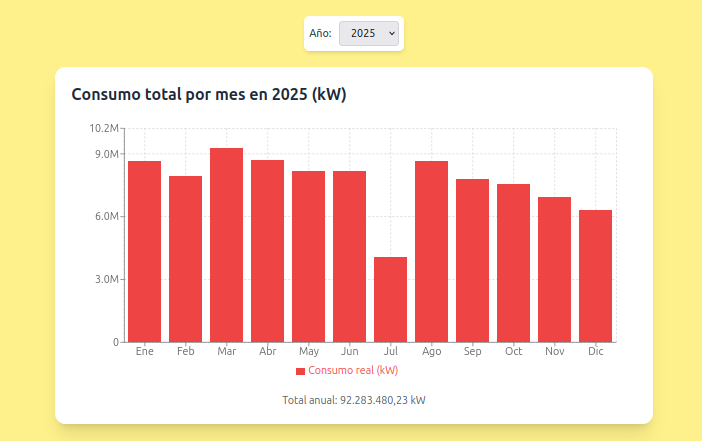
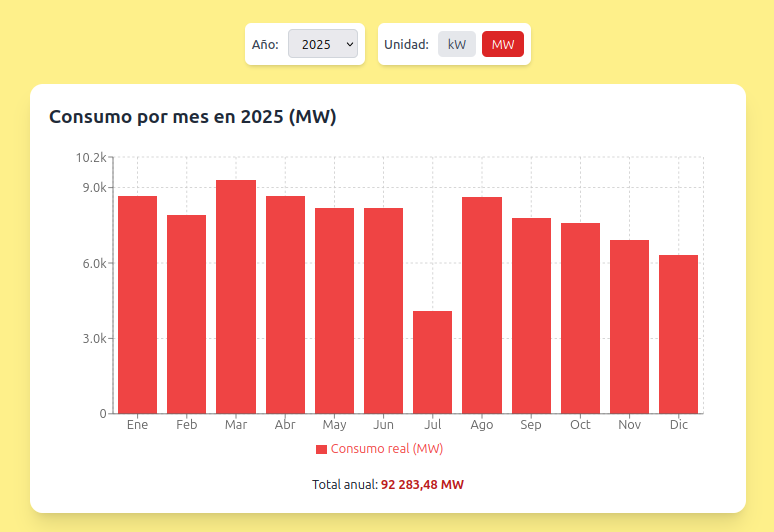
Agregando select unidad de medida en el dashboard

Changed region(s): [[0.0299, 0.0295, 0.9872, 0.9728], [0.5085, 0.619, 0.5385, 0.6485]]

diff --git a/frontend/src/components/ConsumoAnualChart.jsx b/frontend/src/components/ConsumoAnualChart.jsx
@@ -1,3 +1,4 @@
+// src/components/ConsumoAnualChart.jsx
 import { useState, useEffect } from 'react';
 import { getConsumoPorMes } from '../api/consultas.js';
 import {
@@ -9,33 +10,34 @@ const mesesNombres = {
   7: 'Jul', 8: 'Ago', 9: 'Sep', 10: 'Oct', 11: 'Nov', 12: 'Dic'
 };
 
-// Formato para tooltip y total (separadores de miles, 2 decimales)
 const formatNumber = (num) => {
-  return num.toLocaleString('es-ES', { useGrouping: true, maximumFractionDigits: 2 });
+  return num.toLocaleString('es-ES', { 
+    useGrouping: true, 
+    maximumFractionDigits: 2   
+  }).replace(/\./g, ' ');     
 };
 
-// Formato abreviado para el eje Y (con 1 decimal para miles)
 const yAxisFormat = (value) => {
   if (value >= 1e6) return (value / 1e6).toFixed(1) + 'M';
   if (value >= 1e3) return (value / 1e3).toFixed(1) + 'k';
   return value.toString();
 };
 
-export function ConsumoAnualChart({ año = 2025 }) {
+export function ConsumoAnualChart({ año, unidad = 'kW' }) {
   const [data, setData] = useState([]);
   const [loading, setLoading] = useState(true);
   const [error, setError] = useState(null);
-  const [totalAnual, setTotalAnual] = useState(0);
+  const [totalPeriodo, setTotalPeriodo] = useState(0);
 
   useEffect(() => {
     const fetchData = async () => {
       try {
         setLoading(true);
         setError(null);
-        const monthlyData = await getConsumoPorMes(año);
+        const monthlyData = await getConsumoPorMes(año, unidad);
         setData(monthlyData);
         const total = monthlyData.reduce((acc, item) => acc + item.total, 0);
-        setTotalAnual(total);
+        setTotalPeriodo(total);
       } catch (err) {
         console.error('Error cargando datos de consumo:', err);
         setError('No se pudieron cargar los datos. Intente de nuevo más tarde.');
@@ -44,28 +46,21 @@ export function ConsumoAnualChart({ año = 2025 }) {
       }
     };
     fetchData();
-  }, [año]);
+  }, [año, unidad]);
 
-  if (loading) {
-    return <div className="text-center py-12">Cargando datos...</div>;
-  }
+  if (loading) return <div className="text-center py-12">Cargando datos...</div>;
+  if (error) return <div className="text-center py-12 text-red-600">{error}</div>;
+  if (!data.length) return <div className="text-center py-12 text-gray-600">No hay datos disponibles para el año {año}</div>;
 
-  if (error) {
-    return <div className="text-center py-12 text-red-600">{error}</div>;
-  }
-
-  if (!data.length) {
-    return <div className="text-center py-12 text-gray-600">No hay datos disponibles para el año {año}</div>;
-  }
-
-  // Calcular valor máximo para el eje Y (con margen del 10%)
-  const maxTotal = data.length ? Math.max(...data.map(d => d.total)) : 0;
+  const maxTotal = Math.max(...data.map(d => d.total), 0);
   const yDomain = [0, maxTotal * 1.1 || 100];
+
+  const unidadLower = unidad === 'MW' ? 'MW' : 'kW';
 
   return (
     <div className="bg-white rounded-2xl shadow-xl p-6 max-w-4xl mx-auto">
       <h2 className="text-2xl font-bold text-gray-800 mb-4">
-        Consumo total por mes en {año} (kW)
+        Consumo por mes en {año} ({unidadLower})
       </h2>
       <ResponsiveContainer width="100%" height={400}>
         <BarChart data={data} margin={{ top: 20, right: 30, left: 20, bottom: 5 }}>
@@ -73,15 +68,15 @@ export function ConsumoAnualChart({ año = 2025 }) {
           <XAxis dataKey="mes" tickFormatter={(mes) => mesesNombres[mes]} />
           <YAxis domain={yDomain} tickFormatter={yAxisFormat} />
           <Tooltip
-            formatter={(value) => [`${formatNumber(value)} kW`, 'Consumo real']}
+            formatter={(value) => [`${formatNumber(value)} ${unidadLower}`, 'Consumo']}
             labelFormatter={(label) => mesesNombres[label]}
           />
           <Legend />
-          <Bar dataKey="total" fill="#ef4444" name="Consumo real (kW)" />
+          <Bar dataKey="total" fill="#ef4444" name={`Consumo real (${unidadLower})`} />
         </BarChart>
       </ResponsiveContainer>
-      <p className="text-center text-gray-600 mt-4">
-        Total anual: {formatNumber(totalAnual)} kW
+      <p className="text-center text-gray-900 mt-4">
+        Total anual: <span className='font-bold text-red-700'>{formatNumber(totalPeriodo)} {unidadLower}</span>
       </p>
     </div>
   );

diff --git a/frontend/src/components/TopEntidadesConsumo.jsx b/frontend/src/components/TopEntidadesConsumo.jsx
@@ -3,10 +3,13 @@ import { useState, useEffect } from 'react';
 import { getTopEntidadesConsumo } from '../api/consultas.js';
 
 const formatNumber = (num) => {
-  return num.toLocaleString('es-ES', { useGrouping: true, maximumFractionDigits: 2 });
+  return num.toLocaleString('es-ES', { 
+    useGrouping: true, 
+    maximumFractionDigits: 2
+  }).replace(/\./g, ' ');
 };
 
-export function TopEntidadesConsumo({ año }) {
+export function TopEntidadesConsumo({ año, unidad = 'kW' }) {
   const [data, setData] = useState([]);
   const [loading, setLoading] = useState(true);
   const [error, setError] = useState(null);
@@ -16,7 +19,7 @@ export function TopEntidadesConsumo({ año }) {
       try {
         setLoading(true);
         setError(null);
-        const result = await getTopEntidadesConsumo(año);
+        const result = await getTopEntidadesConsumo(año, unidad);
         setData(result);
       } catch (err) {
         console.error(err);
@@ -26,16 +29,18 @@ export function TopEntidadesConsumo({ año }) {
       }
     };
     if (año) fetchData();
-  }, [año]);
+  }, [año, unidad]);
 
   if (loading) return <div className="text-center py-4">Cargando ranking...</div>;
   if (error) return <div className="text-center py-4 text-red-600">{error}</div>;
-  if (!data.length) return <div className="text-center py-4 text-gray-800">No hay datos para el año {año}.</div>;
+  if (!data.length) return <div className="text-center py-4 text-gray-900">No hay datos para el año {año}.</div>;
+
+  const unidadLabel = unidad === 'MW' ? 'MW' : 'kW';
 
   return (
     <div className="bg-white rounded-2xl shadow-xl p-6 max-w-4xl mx-auto mt-8">
       <h3 className="text-xl font-bold text-gray-800 mb-4">
-        Top 10 entidades con mayor consumo en {año} (kW)
+        Top 10 entidades con mayor consumo en {año} ({unidadLabel})
       </h3>
       <div className="overflow-x-auto">
         <table className="min-w-full bg-white border border-gray-200 rounded-lg">
@@ -44,7 +49,7 @@ export function TopEntidadesConsumo({ año }) {
               <th className="px-4 py-2 text-left text-gray-700">#</th>
               <th className="px-4 py-2 text-left text-gray-700">Nombre de la entidad</th>
               <th className="px-4 py-2 text-left text-gray-700">Código REEUP</th>
-              <th className="px-4 py-2 text-right text-red-700">Consumo total (kW)</th>
+              <th className="px-4 py-2 text-right text-red-700 font-bold">Consumo total ({unidadLabel})</th>
             </tr>
           </thead>
           <tbody>

diff --git a/frontend/src/pages/inicio.jsx b/frontend/src/pages/inicio.jsx
@@ -10,6 +10,7 @@ export function Inicio() {
   const [selectedYear, setSelectedYear] = useState(null);
   const [years, setYears] = useState([]);
   const [loadingYears, setLoadingYears] = useState(true);
+  const [unidad, setUnidad] = useState('MW'); 
 
   useEffect(() => {
     const fetchYears = async () => {
@@ -60,8 +61,9 @@ export function Inicio() {
           </p>
         </div>
 
-        {years.length > 0 && (
-          <div className="flex justify-center mb-6">
+        {/* Filtros: año y unidad */}
+        <div className="flex justify-center gap-4 mb-6 flex-wrap">
+          {years.length > 0 && (
             <div className="bg-white rounded-lg shadow-md p-2 flex items-center gap-3">
               <label htmlFor="yearSelect" className="text-gray-700 font-medium">Año:</label>
               <select
@@ -75,8 +77,30 @@ export function Inicio() {
                 ))}
               </select>
             </div>
+          )}
+
+          <div className="bg-white rounded-lg shadow-md p-2 flex items-center gap-3">
+            <span className="text-gray-700 font-medium">Unidad:</span>
+            <div className="flex gap-2">
+              <button
+                onClick={() => setUnidad('kW')}
+                className={`px-3 py-1 rounded-md transition ${
+                  unidad === 'kW' ? 'bg-red-600 text-white' : 'bg-gray-200 text-gray-700 hover:bg-gray-300'
+                }`}
+              >
+                kW
+              </button>
+              <button
+                onClick={() => setUnidad('MW')}
+                className={`px-3 py-1 rounded-md transition ${
+                  unidad === 'MW' ? 'bg-red-600 text-white' : 'bg-gray-200 text-gray-700 hover:bg-gray-300'
+                }`}
+              >
+                MW
+              </button>
+            </div>
           </div>
-        )}
+        </div>
 
         {years.length === 0 && (
           <div className="text-center py-12 text-gray-600">
@@ -86,8 +110,8 @@ export function Inicio() {
 
         {selectedYear && (
           <>
-            <ConsumoAnualChart año={selectedYear} />
-            <TopEntidadesConsumo año={selectedYear} />
+            <ConsumoAnualChart año={selectedYear} unidad={unidad} />
+            <TopEntidadesConsumo año={selectedYear} unidad={unidad} />
           </>
         )}
       </div>

diff --git a/frontend/src/api/consultas.js b/frontend/src/api/consultas.js
@@ -1,15 +1,23 @@
 import axios from './axios';
 
 
-export const getConsumoPorMes = async (anio) => {
-  const response = await axios.get(`/consultas/consumo-por-mes/?anio=${anio}`);
-  return response.data;
+export const getConsumoPorMes = async (anio, unidad = 'kW') => {
+  try {
+    const response = await axios.get(`/consultas/consumo-por-mes/`, {
+      params: { anio, unidad }
+    });
+    return response.data;
+  } catch (error) {
+    console.error('Error al obtener consumo por mes:', error);
+    throw error;
+  }
 };
 
-
-export const getTopEntidadesConsumo = async (anio) => {
+export const getTopEntidadesConsumo = async (anio, unidad = 'kW') => {
   try {
-    const response = await axios.get(`/consultas/top-entidades/${anio}/`);
+    const response = await axios.get(`/consultas/top-entidades/${anio}/`, {
+      params: { unidad }
+    });
     return response.data;
   } catch (error) {
     console.error(`Error al obtener top entidades para año ${anio}:`, error);

diff --git a/backend/app_gestion/views/consultas/consumo_por_mes.py b/backend/app_gestion/views/consultas/consumo_por_mes.py
@@ -9,18 +9,18 @@ import calendar
 
 class ConsumoPorMesView(APIView):
     """
-    Endpoint para obtener el consumo por mes con desplazamiento hacia adelante:
-    - Enero del gráfico muestra consumo real de febrero del mismo año.
-    - Febrero muestra consumo real de marzo.
-    - ...
-    - Noviembre muestra consumo real de diciembre.
-    - Diciembre muestra consumo real de enero del año siguiente.
+    Endpoint para obtener el consumo por mes con desplazamiento hacia adelante.
+    Parámetros:
+        - anio (requerido): año visual.
+        - unidad (opcional): 'kW' (default) o 'MW'.
     """
     authentication_classes = [TokenAuthentication]
     permission_classes = [IsAuthenticated]
 
     def get(self, request):
         año_param = request.query_params.get('anio')
+        unidad = request.query_params.get('unidad', 'kW').upper()
+
         if not año_param:
             return Response(
                 {"error": "Debe proporcionar el parámetro 'anio'."},
@@ -34,23 +34,26 @@ class ConsumoPorMesView(APIView):
                 status=status.HTTP_400_BAD_REQUEST
             )
 
+        if unidad not in ('KW', 'MW'):
+            unidad = 'MW'
+
         resultado = []
         for mes_visual in range(1, 13):
-            # Determinar el mes real cuyo consumo se mostrará en este mes_visual
             if mes_visual == 12:
-                # Diciembre visual muestra enero del año siguiente
                 año_real = año + 1
                 mes_real = 1
             else:
-                # Meses 1..11 muestran mes_visual + 1 del mismo año
                 año_real = año
                 mes_real = mes_visual + 1
 
-            total = (
+            total_kw = (
                 Portador_energetico_elec.objects
                 .filter(año=año_real, mes=mes_real)
                 .aggregate(total=Sum('consumo_real'))['total'] or 0
             )
+
+            # Conversión según unidad
+            total = total_kw / 1000.0 if unidad == 'MW' else total_kw
 
             resultado.append({
                 'mes': mes_visual,
@@ -59,7 +62,3 @@ class ConsumoPorMesView(APIView):
             })
 
         return Response(resultado, status=status.HTTP_200_OK)
-
-
-
-

diff --git a/backend/app_gestion/views/consultas/entidades_mayor_consumo.py b/backend/app_gestion/views/consultas/entidades_mayor_consumo.py
@@ -8,14 +8,10 @@ from ...models import Portador_energetico_elec
 
 class TopEntidadesConsumoView(APIView):
     """
-    Endpoint para obtener las 10 entidades con mayor consumo total en un año VISUAL,
-    aplicando el desplazamiento: el consumo de un mes es el consumo del mes siguiente.
-    
-    Para el año visual Y se suman los consumos reales de:
-    - febrero a diciembre de Y (meses 2..12)
-    - enero de Y+1 (mes 1)
-    
-    Ejemplo: /api/consultas/top-entidades/2025/
+    Endpoint para las 10 entidades de mayor consumo en un año VISUAL.
+    Parámetros:
+        - anio (en URL): año visual.
+        - unidad (query): 'kW' (default) o 'MW'.
     """
     authentication_classes = [TokenAuthentication]
     permission_classes = [IsAuthenticated]
@@ -29,7 +25,10 @@ class TopEntidadesConsumoView(APIView):
                 status=status.HTTP_400_BAD_REQUEST
             )
 
-        # Condición para sumar los consumos que corresponden al año visual 'anio'
+        unidad = request.query_params.get('unidad', 'kW').upper()
+        if unidad not in ('KW', 'MW'):
+            unidad = 'MW'
+
         condicion = Q(año=anio, mes__gte=2, mes__lte=12) | Q(año=anio + 1, mes=1)
 
         resultados = (
@@ -40,13 +39,14 @@ class TopEntidadesConsumoView(APIView):
             .order_by('-consumo_total')[:10]
         )
 
-        data = [
-            {
+        data = []
+        for item in resultados:
+            total_kw = item['consumo_total'] or 0
+            total = total_kw / 1000.0 if unidad == 'MW' else total_kw
+            data.append({
                 "nombre": item['servicio__entidad__nombre'],
                 "codigo_reeup": item['servicio__entidad__codigo_REEUP'],
-                "consumo_total": item['consumo_total'] or 0,
-            }
-            for item in resultados
-        ]
+                "consumo_total": total
+            })
 
         return Response(data, status=status.HTTP_200_OK)
